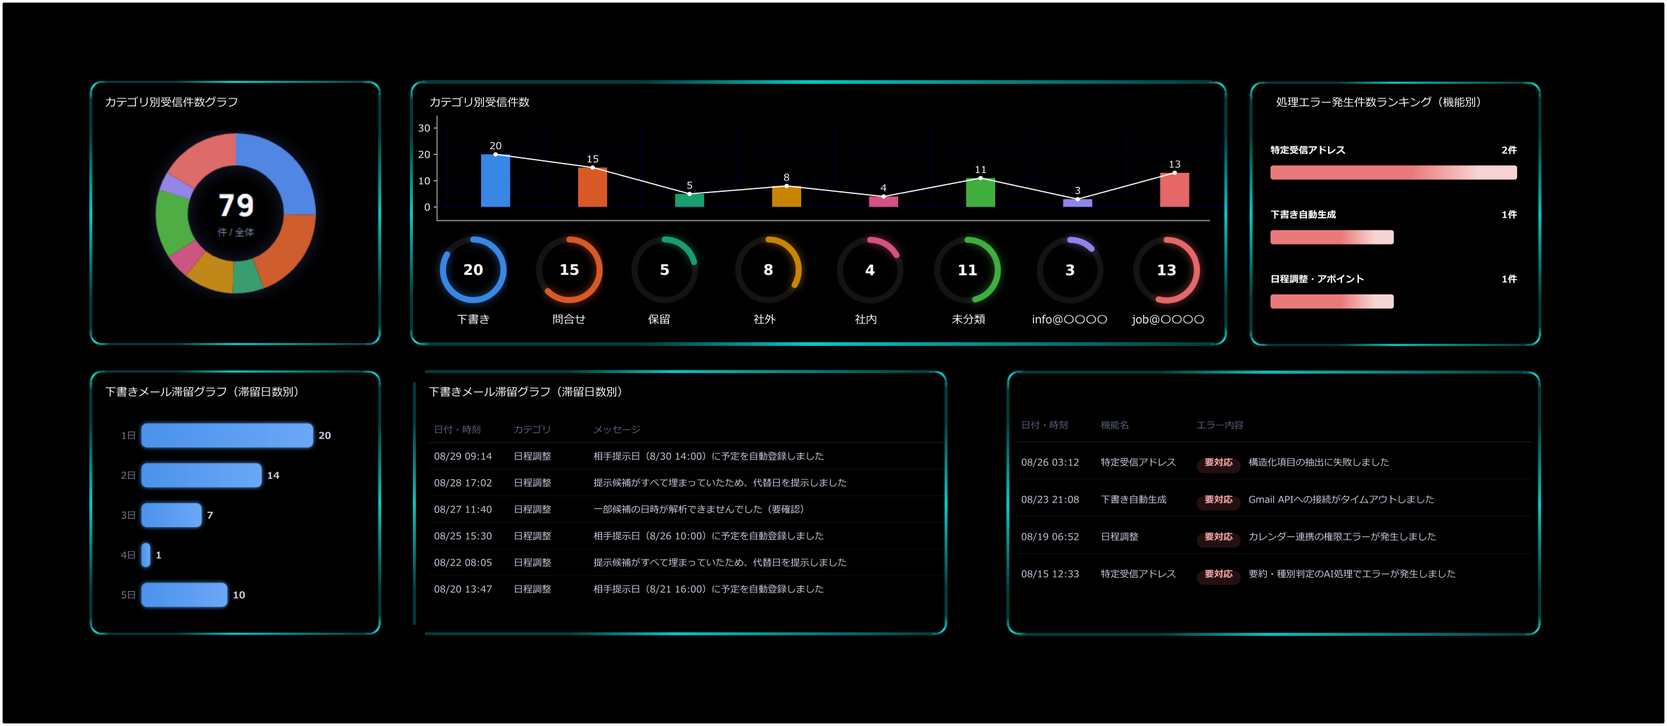
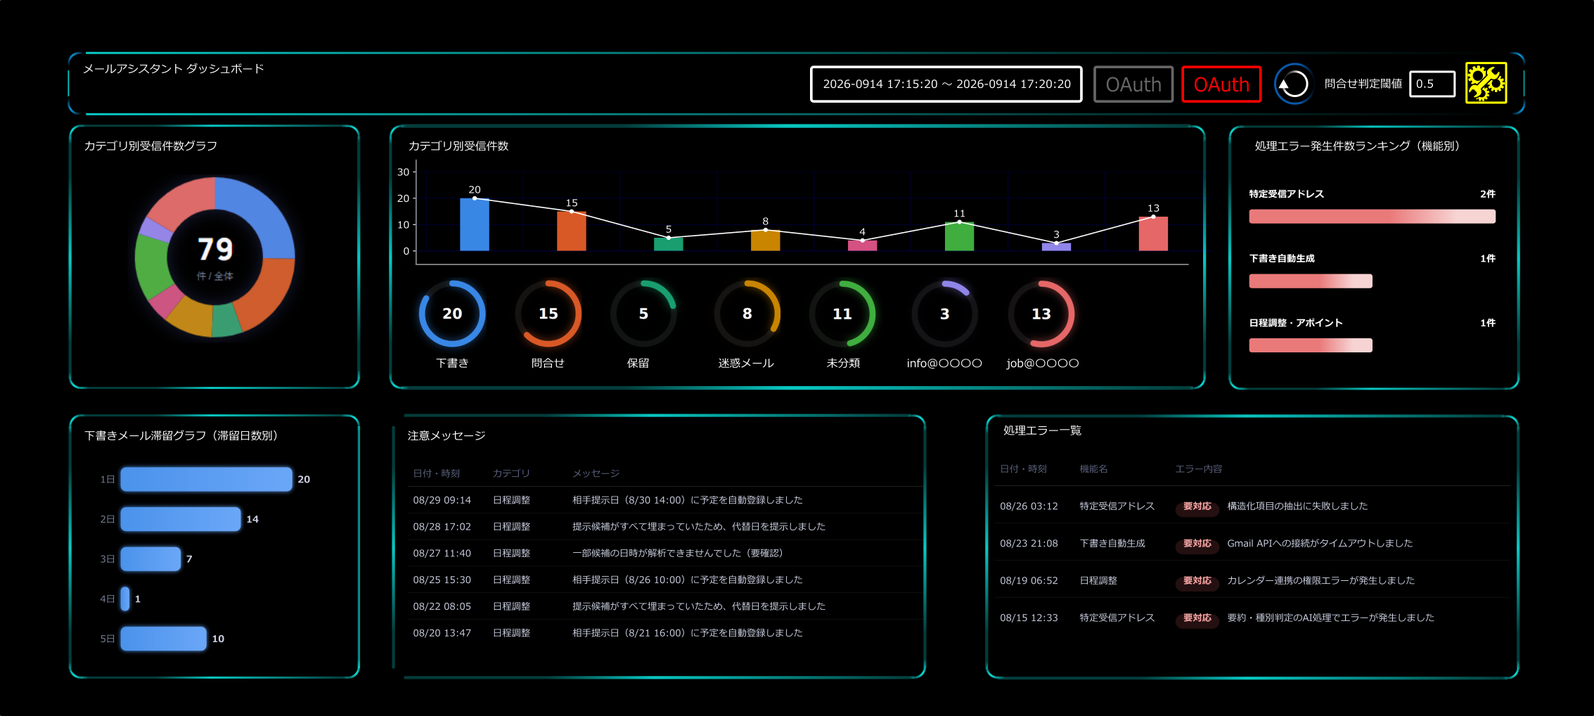
2026-09-18

diff --git a/詳細設計_ダッシュボード.md b/詳細設計_ダッシュボード.md
@@ -35,7 +35,14 @@
 - **いずれかのカテゴリで認可エラー（要再認証）を検知した場合**：同じバッジが赤色に変わる（表示テキストは「OAuth」のまま、色の変化だけで異常を知らせる）
 - 色を変えるトリガーは、各カテゴリの例外処理でtry/catchにより検知している認可エラー（共通基盤_GAS運用の注意点.md 3章、処理エラーアラート一覧の「要再認証」種別。9章参照）と同じ検知結果を使う。4カテゴリ（下書き自動生成・日程調整アポイント・特定受信アドレス・迷惑メール誤判定検知）はいずれもGASでGmail（またはGoogleカレンダー）と連携しているため、本バッジは特定のカテゴリに紐づくものではなく、システム全体としてのOAuth連携状態をまとめて表す
 - バッジをクリックすると、再認可手順マニュアル（9章「エラーの場合のエラー内容」参照）へ直接遷移する（2026-09-17決定）
-- **OAuthバッジのすぐ近くに、AI判定エラー時の「個別リトライ」操作の入り口（ボタン等）を設置する（2026-09-16決定）**。クリックすると、AI判定処理がエラーになった項目（処理エラーアラート一覧〔9章〕に記録されているもの）に対して再試行を行う。具体的なUI（ボタン単体か、クリックで一覧を開く形か等）はワイヤーフレーム作成時に別途定める（13章Open Questions参照）
+- **OAuthバッジのすぐ近くに、AI判定エラー時の「個別リトライ」操作の入り口（ボタン等）を設置する（2026-09-16決定）**。単一のボタンとし、クリックすると、AI判定処理がエラーになった項目（処理エラーアラート一覧〔9章〕に記録されているもの）に対して即座に再試行処理を開始する（一覧を開く等の中間ステップは設けない。2026-09-18決定）
+
+### 共通ヘッダー：その他の常設要素（2026-09-18追加）
+
+OAuth連携状態バッジ・個別リトライボタンに加えて、共通ヘッダーには以下の要素も常設する。
+
+- **問合せ判定閾値の一時変更欄**：定型的な問い合わせ対応のカテゴリ判定しきい値（恒久値は11章の設定画面で管理）を一時的に上書きするための数値入力欄を設ける。6章「一時的なしきい値・期間を指定した一括再処理」の入口はこの欄とし、対象期間はヘッダーの期間表示・指定欄で指定する。値を確定した際の具体的な実行トリガーは、判定閾値の左側に設置したバッジ（濃紺の円形アイコン、反時計回りの矢印）をクリックした時点とする（2026-09-18決定）
+- **システム設定画面の呼び出しバッジ**：黄色の歯車アイコンのバッジとする（2026-09-18決定。11章参照）
 
 ## 2. 全体サマリー
 
@@ -45,16 +52,20 @@
 - 全体の受信メール数
 - スパムメール数
 - 自動返信下書き機能が動いた件数
-- 特定受信アドレス宛の受信件数
+- 特定受信アドレス宛の受信件数（2026-09改称：旧「ホームページからの問い合わせメール件数」。詳細設計_特定受信アドレス.md 5章参照）
 - 迷惑メール誤判定検知機能で見つかった件数
-- 転職エージェント・フリーランス案件紹介サイトからのメール件数（グループ化機能）
-- カテゴリ別受信件数（定型的な問い合わせ対応／営業・取引先／日程調整・アポイント／特定受信アドレス宛／迷惑メール誤判定検知、および未分類メール。社外／社内の区分は廃止した。2026-09-17決定）
-- 保留件数
+- カテゴリ別受信件数（定型的な問い合わせ対応／営業・取引先／日程調整・アポイント／特定受信アドレス宛／迷惑メール誤判定検知／未分類メール、および他〔保留等〕）
 
-各円弧グラフ（カテゴリ別受信件数）はクリック可能で、対応する一覧画面（要確認の下書き一覧〔3章〕、特定受信アドレス一覧〔7章〕、迷惑メール誤判定検知結果一覧〔8章〕等）に遷移する（2026-09-17決定）。
+各円弧グラフ（カテゴリ別受信件数）はクリック可能で、対応する一覧画面（要確認の下書き一覧〔3章〕、特定受信アドレス一覧〔7章〕、迷惑メール誤判定検知結果一覧〔8章〕等）に遷移する（2026-09-17決定）。特定受信アドレス宛の内訳は、システム設定画面に登録された宛先アドレスごとに集計し、アドレスごとに個別の弧（例：info@◯◯、job@◯◯）として表示する。各弧をクリックすると、該当アドレス宛に絞り込んだ特定受信アドレス一覧（7章）が表示される（2026-09-18決定）。保留メール等、他のいずれのカテゴリにも含まれない集計値は「他」の弧としてまとめて表示し、クリックすると保留メール一覧（4章）に遷移する（2026-09-18決定）。
+
+カテゴリ別受信件数は、上記の円弧グラフの直上に、同一の内訳を棒グラフ＋折れ線グラフのコンボチャートでも表示する（2026-09-18決定。画面イメージ参照）。横軸は円弧グラフと同じ区分（下書き／他／迷惑メール／未分類／特定受信アドレスの各アドレス等）、縦軸は件数とし、各棒の頂点を折れ線でつないで推移・比較を見やすくする。
+
+特定受信アドレスの内訳表示は最大3アドレスまでとする。登録アドレスが4件以上ある場合、受信件数の多い順に上位3アドレスを個別の弧・棒として表示し、4件目以降は「その他特定アドレス」として1つに合算して表示する（2026-09-18決定）。
+
+各カテゴリの表示色（円グラフ・円弧グラフ・コンボチャート共通）は、システム設定画面で利用者が指定できるようにする（2026-09-18決定。11章参照）。
 
 **その他**
-- 「要確認の下書き」の滞留日数（横棒グラフ、日数を併記）
+- 「要確認の下書き」の滞留日数（横棒グラフ、日数を併記）。滞留日数の区分は1日／2日／3日／4日／5日以上とし、最終区分（5日以上）は5日以上経過した下書きメールをすべて合算して集計する（2026-09-18決定。画面イメージ上の表記「5日」は「5日以上」の意）
 
 データソース：各カテゴリの詳細設計「出力」章に記載された集計用メタ情報（詳細設計_下書き自動生成.md 4章、詳細設計_日程調整アポイント.md 5章、詳細設計_特定受信アドレス.md 5章）。
 
@@ -69,24 +80,16 @@
 - カテゴリ
 - 下書きへのリンク（クリックでGmailの下書き画面を開く）
 - 「不要」ボタン／バッジ
-- 下書き本文に不確定マーカー（`<<<<〇〇について回答不確定>>>>`形式）が含まれる場合の要確認フラグ表示（詳細設計_下書き自動生成.md 3章Step3・5章参照。2026-09追加）。定型的な問い合わせ対応では回答情報が不足していても保留にせず必ず下書きを作成する方式（2026-09決定）としたため、このフラグにより「送信前に必ず内容確認・加筆が必要な下書き」を他の下書きと区別できるようにする
+- **不確定マーカー**：下書き本文に不確定マーカー（`<<<<〇〇について回答不確定>>>>`形式）が含まれる場合、要確認フラグを表示する（詳細設計_下書き自動生成.md 3章Step3・5章参照）。定型的な問い合わせ対応では回答情報が不足していても保留にせず必ず下書きを作成する方式（2026-09決定）としたため、このマーカーにより「送信前に必ず内容確認・加筆が必要な下書き」を他の下書きと区別できるようにする。フラグは画像（アイコン）で表示するが、具体的なデザインは別途検討する
 
 操作・仕様：
 - フェーズ1では、ダッシュボード上での下書き本文の編集機能は設けない
-- 返信不要なメールに対しても自動で下書きが作成されてしまうケースを想定し、「不要」を押すとその下書きを本一覧から削除できるようにする。削除時はGmail側の下書き自体も削除する（ダッシュボードの管理データのみを消して表示から外す方式は採らない。2026-09-17決定）
-- 日程調整・アポイントでパターンBにより予定が自動登録された下書きは、他カテゴリと区別できるステータス表示（例：「予定登録済み・下書き確認待ち」バッジ、詳細設計_日程調整アポイント.md 4章Step5）を行う
+- 返信不要なメールに対しても自動で下書きが作成されてしまうケースを想定し、「不要」を押すとその下書きを本一覧から削除できるようにする。削除時はGmail側の下書き自体も削除する。
+- 日程調整・アポイントでパターンBにより予定が自動登録された下書きは、他カテゴリと区別できるステータス表示（例：「予定登録済み・下書き確認待ち」バッジ、詳細設計_日程調整アポイント.md 4章Step5）を行う。このバッジも画像（アイコン）で表示するが、具体的なデザインは別途検討する
 
 ## 4. 保留メール一覧
 
-対象：日程調整アポイントなどが、候補日解析不可・候補日0件・パターン判別不明などの理由で下書きを作成せず保留にしたメール（詳細設計_日程調整アポイント.md 4章Step3・Step4-A・Step4-B、6章）。
-
 下書き自動生成（定型的な問い合わせ対応）は2026-09の方針変更により「保留」の運用を廃止し、回答情報が不足する場合も含めて必ず下書きを作成する方式としたため、本一覧の対象外とする（詳細設計_下書き自動生成.md 3章Step3・5章参照）。該当する下書きは、3章「要確認の下書き一覧」に不確定マーカー付きの要確認フラグとして表示される。
-
-表示項目：
-- 受信日時、差出人、件名
-- カテゴリ
-- 保留理由（例：「日程調整・候補日なし」「日程調整・日時解析不可」「日程調整・判定不明」）
-- 元メールへのリンク
 
 ## 5. カテゴリ固有の注意メッセージ
 
@@ -108,27 +111,27 @@
 
 操作フロー：
 1. 利用者が対象メールの行で「カテゴリ変更」を選択する
-2. 変更後のカテゴリ（定型的な問い合わせ対応／日程調整・アポイント／特定受信アドレス等、下書き自動生成の対象となる全カテゴリ）を選択する
+2. 変更後のカテゴリ（定型的な問い合わせ対応／日程調整・アポイント等、下書き自動生成の対象となる全カテゴリ。特定受信アドレスは対象外〔下記「対象範囲」参照〕）を選択する
 3. 保存すると、選択したカテゴリの下書き生成処理（各カテゴリの詳細設計のStep3以降に相当する処理）が再実行される
 
-対象範囲：特定のカテゴリに限らず、下書き自動生成の対象となる全カテゴリで共通して使える機能とする（親仕様5章）。特定受信アドレス一覧は宛先ベースの判定（詳細設計_特定受信アドレス.md Step2）のため、本機能の対象に含めるかは13章Open Questions参照。
+対象範囲：特定のカテゴリに限らず、下書き自動生成の対象となる全カテゴリで共通して使える機能とする（親仕様5章）。特定受信アドレス宛のメール（宛先ベースの判定。詳細設計_特定受信アドレス.md Step2）は本機能（メール単位の手動カテゴリ変更）の対象に含めない（2026-09-18決定）。理由：特定受信アドレスの登録漏れ（本来登録すべきアドレスがシステム設定画面の「特定受信アドレス一覧」に未登録だったケース）が想定されるが、この場合は該当アドレスを一覧に登録したうえで、対象期間を指定した再処理により該当メールをまとめて特定受信アドレス扱いに再分類する運用とする（具体的な再処理UIの仕様は別途定める）。
 
-なお、定型的な問い合わせ対応のカテゴリ判定（AI判定）については、メール1件ずつのカテゴリ変更に加えて、一時的なしきい値・期間を指定した一括再処理の仕組みを別途設ける（詳細設計_下書き自動生成.md 3章Step2「ダッシュボードからの一時的なしきい値変更による再処理」参照。画面配置はシステム設定画面〔11章〕に含める。2026-09-17決定）。
+なお、定型的な問い合わせ対応のカテゴリ判定（AI判定）については、メール1件ずつのカテゴリ変更に加えて、一時的なしきい値・期間を指定した一括再処理の仕組みを別途設ける（詳細設計_下書き自動生成.md 3章Step2「ダッシュボードからの一時的なしきい値変更による再処理」参照。入口は共通ヘッダーの「問合せ判定閾値」入力欄とする〔1章参照〕）。
 
 ## 7. 特定受信アドレス一覧
 
-詳細設計_特定受信アドレス.md 4章Step5・8章の内容をそのまま踏襲する。
+詳細設計_特定受信アドレス.md 4章Step5・6章の内容をそのまま踏襲する（2026-09-18改称：旧「HP問い合わせ一覧」。特定受信アドレス.md自体が「HP問い合わせ」から「特定受信アドレス」へ改称・一般化されたことに伴う。同ドキュメント修正履歴参照）。
 
-本画面へは、全体サマリー（2章）のカテゴリ別受信件数の円弧グラフのうち「特定受信アドレス」の弧をクリックすることで遷移する（2026-09-17決定）。
+本画面へは、全体サマリー（2章）のカテゴリ別受信件数の円弧グラフのうち「特定受信アドレス」の各アドレス別の弧（例：info@◯◯、job@◯◯）をクリックすることで、該当アドレス宛に絞り込んで遷移する（2026-09-18決定）。
 
-表示項目：受信日時、会社名、担当者名、メールアドレス、電話番号、要約、種別（問合せ／営業／他）、フォーム選択カテゴリ、元メールへのリンク、対応状況。
+表示項目：受信日時、会社名、担当者名、メールアドレス、電話番号、要約、種別（問合せ／営業／他。2026-09-08改称：旧「本来の問い合わせ／営業・PR目的／その他・判定不能」）、フォーム選択カテゴリ、元メールへのリンク、対応状況。
 
 操作：
 - 種別によるフィルタ表示（タブ分けはしない）
 - 対応状況バッジ（未対応／対応済み／保留）のクリック切り替え
 - 種別の手動訂正（誤判定時、決定済み事項）
 - 「返信下書きを作成」ボタン（Step 6。作成後は「下書き作成済み」であることが分かる表示を追加）
-- 「フォーマット未認識」「処理エラー」フラグの表示（例外処理6章）
+- 「フォーマット未認識」「処理エラー」フラグの表示（詳細設計_特定受信アドレス.md 6章）
 
 ## 8. 迷惑メール誤判定検知 結果一覧
 
@@ -161,19 +164,27 @@
 表示項目（エラーの一覧本体）：
 - 動作時間
 - 機能名
-- 動作結果（正常終了／エラー）
 - **エラー種別（通常エラー／要再認証）**（2026-09-15追加）。新着メール検知の連携方式は全カテゴリ（下書き自動生成・日程調整アポイント・特定受信アドレス・迷惑メール誤判定検知）でGAS（Google Apps Script）に統一する方針が決定している（メールアシスタントツール_仕様書.md 4章・7章参照）。GASでGmail連携の認可（OAuth）が失効した場合、放置しても自然には復旧せず人手による再認可操作が必要になる（共通基盤_GAS運用の注意点.md参照）。この種のエラーは、GAS側で「Authorization is required to perform that action」等の特定メッセージを含む例外として検知できるため、各カテゴリの処理側でtry/catchにより通常のエラーと区別し、本項目で「要再認証」として記録する。この検知ロジックは各カテゴリの詳細設計の例外処理章にも個別に明記する
-- エラーの場合のエラー内容（「要再認証」の場合は、再認可の手順を示す簡易マニュアル〔スクリーンショット付き〕へのリンクをあわせて表示する。マニュアルの内容は共通基盤_GAS運用の注意点.md 2(d)・4章の手順を元に作成する）
+- エラー内容（「要再認証」の場合は、再認可の手順を示す簡易マニュアル〔スクリーンショット付き〕へのリンクをあわせて表示する。マニュアルの内容は共通基盤_GAS運用の注意点.md 2(d)・4章の手順を元に作成する）
 
 備考：
 - 既存の3つの詳細設計（下書き自動生成・日程調整アポイント・特定受信アドレス）は、いずれも自カテゴリの例外処理の章から本一覧への記録を明記済み（2026-09決定・反映済み）。下書き自動生成・日程調整アポイントは処理エラー時「通常の未対応メールとして残す（ダッシュボード上は『未対応』のまま）」に加えて本一覧にも記録し、特定受信アドレスは専用一覧（7章）の「処理エラー」フラグ表示に加えて本一覧にも記録する
-- 「要再認証」種別は、GASを採用する全カテゴリ（下書き自動生成・日程調整アポイント・特定受信アドレス・迷惑メール誤判定検知）で共通して用いる（各カテゴリの詳細設計の例外処理章を参照）。表示上は「通常エラー」よりも目立つ形（例：警告色のバッジ、一覧の上位固定表示など）にすることが望ましい
-- 本一覧内の個別表示に加えて、画面右上の共通ヘッダーにOAuth連携状態バッジを常設し、認可エラー検知時に赤色表示することで、一覧を開かなくても状態を把握できるようにする（2026-09-15決定。1章「共通ヘッダー：OAuth連携状態バッジ」参照）
-- ログの保存期間は親仕様7章「データの取り扱い」参照（暫定：当面は全件保持）
+- 「要再認証」種別は、GASを採用する全カテゴリ（下書き自動生成・日程調整アポイント・特定受信アドレス・迷惑メール誤判定検知）で共通して用いる（各カテゴリの詳細設計の例外処理章を参照）。表示上は「通常エラー」よりも目立つ形（警告色のバッジ、一覧の上位固定表示）とする
+- 本一覧内でエラー種別ごとに個別に表示されることに加えて、画面右上の共通ヘッダーにOAuth連携状態バッジを常設し、認可エラー検知時に赤色表示することで、本一覧を開かなくても状態を把握できるようにする（2026-09-15決定。1章「共通ヘッダー：OAuth連携状態バッジ」参照）
+- 「要再認証」に該当する当メッセージ一覧のメッセージについて、表示文字は赤とし、そのほかのメッセージは白とする（バッジ等の背景色は設けない。2026-09-18決定）
+- ログの保存期間は既定30日とし、システム設定画面（11章）で利用者が変更できるようにする（2026-09-18決定。親仕様7章「データの取り扱い」参照）
+
+### 処理エラー発生件数ランキング（機能別、2026-09-18追加）
+
+処理エラーアラート一覧の画面に、集計期間内の処理エラー発生件数を機能別にランキング表示する横棒グラフを設ける。
+
+- 表示項目：機能名、エラー発生件数
+- 表示件数は上位3機能のみとする（4位以下は表示しない。2026-09-18決定）
+- 集計対象は本一覧の表示項目（エラーの一覧本体）と同じデータソースとする
 
 ## 10. （廃止）受信メールのグループ化・フォルダ表示
 
-**本機能は削除された（2026-09決定。メールアシスタントツール_仕様書.md 7章「決定済み事項」参照）。** 理由：既に「定型的な問い合わせ対応」「日程調整・アポイント」「特定受信アドレス宛」の3カテゴリ＋「未分類メール」一覧でダッシュボード表示が整理できているため、それ以上の分類機能は不要と判断したため。
+**本機能は削除された（2026-09決定。メールアシスタントツール_仕様書.md 7章「決定済み事項」参照）。** 理由：既に「定型的な問い合わせ対応」「日程調整・アポイント」「HPのお問い合わせページ経由」の3カテゴリ＋「未分類メール」一覧でダッシュボード表示が整理できているため、それ以上の分類機能は不要と判断したため。
 
 以下は削除前の設計内容（記録として残す。実装は行わない）：
 
@@ -181,7 +192,8 @@
 
 ## 11. システム設定画面
 
-ダッシュボードにバッジを設け、そこからシステム全体の設定画面を呼び出す（2026-09-03追加。2026-09-17決定：呼び出し手段はバッジのみとし、メニュー方式は設けない）。
+ダッシュボードにバッジを設け、そこからシステム全体の設定画面を呼び出す。
+（2026-09-03追加。2026-09-17決定：呼び出し手段はバッジのみとし、メニュー方式は設けない。2026-09-18決定：バッジは黄色の歯車アイコンとする。1章参照）
 
 設定対象項目：
 - 稼働曜日・稼働時間帯、想定所要時間、候補日の検索期間（詳細設計_日程調整アポイント.md 3章）
@@ -189,26 +201,23 @@
 - 特定受信アドレス一覧、抽出項目のラベル別名一覧（詳細設計_特定受信アドレス.md 3章）
 - 迷惑メール誤判定検知機能のスキャン頻度（親仕様6章）
 - 定型的な問い合わせ対応のカテゴリ判定用「該当しやすい特徴／該当しにくい特徴」リスト、および実運用で使う恒久的な判定しきい値（初期値0.5。詳細設計_下書き自動生成.md 3章Step2。2026-09追加・決定）
+- 処理エラーアラート一覧・迷惑メール誤判定検知結果一覧のログ保存期間（初期値30日。9章参照。2026-09-18追加・決定）
+- ダッシュボードの自動更新間隔（初期値5分。2章他、画面全体のデータ再取得頻度。GASの時間主導型トリガーのスキャン間隔〔1章・13章決定済み事項参照〕とは別設定。2026-09-18追加・決定）
+- カテゴリ別受信件数の各カテゴリの表示色（円グラフ・円弧グラフ・コンボチャート共通。2章参照。2026-09-18追加・決定）
 
-なお、この恒久的なしきい値の変更（本画面での操作）とは別に、一時的なしきい値と対象期間（受信日時の範囲）を指定してメールを再判定する機能を設ける（詳細設計_下書き自動生成.md 3章Step2「ダッシュボードからの一時的なしきい値変更による再処理」参照。2026-09決定）。この一時的な再処理機能は、新たに専用画面を設けず、本設定画面の機能として含める（2026-09-17決定）。
+なお、この恒久的なしきい値の変更（本画面での操作）とは別に、一時的なしきい値と対象期間（受信日時の範囲）を指定してメールを再判定する機能を設ける（詳細設計_下書き自動生成.md 3章Step2「ダッシュボードからの一時的なしきい値変更による再処理」参照。2026-09決定）。本機能の入口は共通ヘッダーの「問合せ判定閾値」入力欄とする（1章参照）。
+（2026-09-18決定：当初は本設定画面の機能として含める方針としていたが、共通ヘッダーの常設項目に変更した）
 
 画面構成は、Windows 11の設定アプリのようなイメージとする：左側に設定カテゴリの一覧（縦方向のナビゲーションリスト）を配置し、右側に選択中のカテゴリの詳細設定項目を表示する2ペイン構成とする（2026-09-17決定）。
 
 ## 12. 例外処理
 
-- 各カテゴリの処理機能からのデータ連携が一時的に取得できない場合、該当セクションには「データ取得中」または「取得エラー」の表示を行い、他セクションの表示は継続する
+- 各カテゴリ（下書き自動生成・日程調整アポイント・特定受信アドレス・迷惑メール誤判定検知）の処理機能からのデータ連携が一時的に取得できない場合、そのカテゴリのデータを表示するダッシュボードの画面（例：特定受信アドレスなら7章の一覧、迷惑メール誤判定検知なら8章の一覧）には「データ取得中」または「取得エラー」の表示を行い、他のカテゴリの画面の表示は継続する
 - 「不要」操作でGmail側の下書き削除に失敗した場合、ダッシュボード上の一覧からは削除せず、エラーを処理エラーアラート一覧（9章）に記録する
 
 ## 13. このカテゴリ固有のOpen Questions
 
-- 処理エラーアラート一覧・迷惑メール誤判定検知結果一覧のログ保存期間（親仕様7章と連動）
 - 迷惑メール誤判定検知結果一覧からの「受信トレイへ戻す」操作の具体的な実装方法（UI自体は一覧の行から操作する形で決定済み。GmailApp側でどのAPIを使うかは未定。詳細設計_迷惑メール誤判定検知.md 8章参照）
-- 手動カテゴリ再分類機能の対象に特定受信アドレス（宛先ベース判定）を含めるか
-- ダッシュボード全体の更新頻度・リアルタイム性、および利用者範囲（親仕様7章の暫定方針を参照。正式確定は運用開始後）
-- 各セクション間のナビゲーションUI（左メニュー／タブ／トップページからのリンクなど。カテゴリ別受信件数の円弧グラフクリックによる各一覧への遷移は決定済み〔下記「決定済み事項」参照〕だが、それ以外の画面全体のメニュー構成は未定）
-- 処理エラーアラート一覧内の「要再認証」表示の具体的な強調デザイン（バッジの色・一覧内での並び順など。9章参照。画面右上の共通OAuthバッジの見た目は下記「決定済み事項」参照）
-- 再認可手順マニュアル（スクリーンショット付き）の保管場所・作成タイミング（9章参照）
-- 「個別リトライ」操作の具体的なUI（ボタン単体か、クリックで一覧を開く形か等。設置位置〔OAuthバッジの近く〕は決定済み。1章参照）
 
 ### 決定済み事項（参考）
 以下は検討の結果、本ドキュメント内で決定済みとした項目。
@@ -224,8 +233,23 @@
 - **カテゴリ別受信件数の円弧グラフのクリック操作**：クリックすると対応する一覧画面（要確認の下書き一覧〔3章〕、特定受信アドレス一覧〔7章〕、迷惑メール誤判定検知結果一覧〔8章〕等）に遷移する（2026-09-17決定。2章参照）
 - **カテゴリ別受信件数の内訳**：社外／社内の区分は廃止し、迷惑メール誤判定検知を区分の1つとして含める（2026-09-17決定。2章参照）
 - **システム設定画面へのアクセス手段**：メニューは設けず、バッジのみから呼び出す（2026-09-17決定。11章参照）
-- **一時的なしきい値再処理機能の設置画面**：新規の専用画面は設けず、システム設定画面（11章）の機能として含める（2026-09-17決定）
+- **一時的なしきい値再処理機能の設置画面**：共通ヘッダーの「問合せ判定閾値」入力欄を入口とする（1章参照）。
+  （2026-09-18決定：当初はシステム設定画面〔11章〕の機能として含める方針〔2026-09-17決定〕だったが、画面イメージに基づき共通ヘッダーへの常設項目に変更した）
 - **システム設定画面の画面構成**：Windows 11の設定アプリのような2ペイン構成（左：設定カテゴリの一覧、右：選択中カテゴリの詳細設定項目）とする（2026-09-17決定。11章参照）
+- **処理エラーアラート一覧・迷惑メール誤判定検知結果一覧のログ保存期間**：既定30日とし、システム設定画面（11章）で利用者が変更できるようにする（2026-09-18決定。9章・11章参照）
+- **ダッシュボード全体の更新頻度・利用者範囲**：ダッシュボードの自動更新間隔は既定5分とし、システム設定画面（11章）で利用者が変更できるようにする（GASの時間主導型トリガーのスキャン間隔のデフォルト値とは別設定。上記決定済み事項参照）。利用者範囲はフェーズ1は利用者本人のみとする（詳細設計_ダッシュボード実装方式.md 14章の認証方式と整合。2026-09-18決定）
+- **処理エラーアラート一覧内の「要再認証」表示の強調デザイン**：文字色を赤とする（それ以外の項目・文字は白。バッジ等の背景色は設けない。2026-09-18決定。9章参照）
+- **「個別リトライ」操作のUI**：単一のボタンとし、クリックすると即座に再試行処理を開始する（一覧を開く等の中間ステップは設けない。2026-09-18決定。1章参照）
+- **手動カテゴリ再分類機能の対象範囲**：特定受信アドレス宛のメール（宛先ベース判定）は対象に含めない。登録漏れは、該当アドレスの登録＋対象期間指定の再処理で対応する（2026-09-18決定。6章参照）
+- **再認可手順マニュアルの作成タイミング・保管場所**：本番運用を開始し、実際に認可エラー（要再認証）が発生した時点で、その時の画面をもとに作成する（実際の画面がないと作成できないため）。保管場所は https://www2u.biglobe.ne.jp/~indy/mail-assistant/ とする（2026-09-18決定。1章・9章参照）
+- **カテゴリ別受信件数の表示色**：円グラフ・円弧グラフ・コンボチャート共通で、システム設定画面から利用者が指定できるようにする（2026-09-18決定。2章・11章参照）
+- **特定受信アドレスの内訳表示上限**：最大3アドレスまで個別表示し、4件目以降は受信件数の多い順で上位3件に入らなかった分を「その他特定アドレス」として1つに合算する（2026-09-18決定。2章参照）
+- **処理エラー発生件数ランキング（機能別）の表示件数**：上位3機能のみ表示する（2026-09-18決定。9章参照）
+- **下書き滞留日数グラフの最終区分**：「5日以上」とし、5日以上経過した下書きメールをすべて合算して集計する（2026-09-18決定。2章参照）
+- **共通ヘッダーの「問合せ判定閾値」欄**：定型的な問い合わせ対応の一時的なしきい値変更（6章）の入口として共通ヘッダーに常設する（2026-09-18決定。1章参照）
+- **システム設定画面呼び出しバッジの見た目**：黄色の歯車アイコンとする（2026-09-18決定。1章・11章参照）
+- **詳細画面から全体サマリー・他の詳細画面へ戻る手段**：常設の左メニューやタブは設けず、「戻る」ボタンのみとする（2026-09-18決定。13章参照）
+- **カテゴリ別受信件数の円弧グラフに含まれない集計値の扱い**：保留メール等、他のいずれのカテゴリにも含まれない集計値は「他」の弧としてまとめて表示し、クリックすると保留メール一覧（4章）に遷移する（2026-09-18決定。2章・13章参照）
 
 ## 14. 他機能との関係
 

diff --git a/詳細設計_ダッシュボード実装方式.md b/詳細設計_ダッシュボード実装方式.md
@@ -14,7 +14,7 @@
 - **フロントエンド**：静的HTML/CSS/JS（グラフはChart.js）。設計を最優先するため、フレームワーク非依存の素のHTML/CSS/JSで作る
 - **バックエンド**：Java（Spring Boot）によるREST API
 - **データストア**：バックエンドが所有するリレーショナルDB（PostgreSQL推奨。個人利用規模ならSupabase等の無料枠で足りる）
-- **既存4機能（下書き自動生成・日程調整アポイント・特定受信アドレス・迷惑メール誤判定検知）**：GAS実装のまま変更しない（`共通基盤_GAS運用の注意点.md`で決定済みの方針を維持）
+- **既存4機能（下書き自動生成・日程調整アポイント・特定受信アドレス・迷惑メール誤判定検知）**：GAS実装のまま変更しない（`共通基盤_GAS運用の注意点.md`で決定済みの方針を維持。2026-09-18更新：「HP問い合わせ」は`詳細設計_特定受信アドレス.md`側の改称・一般化決定にあわせて「特定受信アドレス」に呼称変更）
 
 ### データの流れ（決定事項）
 
@@ -49,13 +49,13 @@ GASが(A)でSpring Boot APIを呼び出す都合上、Spring Bootアプリは常
 各画面のAPIが返すデータの土台となるテーブル。厳密なDDLは実装時に詰めるとして、ここでは論理的な項目だけ定義する。
 
 - **emails**：受信メールの基本情報を集約する中心テーブル（下書き一覧・保留一覧・注意メッセージ・未分類一覧などが共通して参照する）
-  - id, receivedAt, sender, subject, category（typical_inquiry / scheduling / specific_address / uncategorized）, judgeMethod（rule / ai）, status（下書き作成済み・未送信 / 予定登録済み・下書き確認待ち / 保留 / 未対応 / 未分類）, draftGmailLink, hasUncertainMarker, originalMailLink
+  - id, receivedAt, sender, subject, category（typical_inquiry / scheduling / hp_inquiry / specific_address / uncategorized）, judgeMethod（rule / ai）, status（下書き作成済み・未送信 / 予定登録済み・下書き確認待ち / 保留 / 未対応 / 未分類）, draftGmailLink, hasUncertainMarker, originalMailLink
 - **pending_reasons**：保留メール一覧の保留理由（emailsに1:1、category=scheduling等が対象）
   - emailId, reason（候補日なし／日時解析不可／判定不明）
 - **category_notices**：カテゴリ固有の注意メッセージ
   - id, occurredAt, category, message, originalMailLink, relatedDraftLink
-- **specific_address_inquiries**：特定受信アドレス一覧専用テーブル（表示項目・対応状況の軸がemailsと異なるため分離。2026-09改称：旧「hp_inquiries」）
-  - id, receivedAt, companyName, contactName, email, phone, summary, type（問合せ／営業／他）, formCategory, originalMailLink, status（未対応／対応済み／保留）, formatUnrecognizedFlag, processingErrorFlag, draftCreatedFlag
+- **specific_address_inquiries**：特定受信アドレス一覧専用テーブル（表示項目・対応状況の軸がemailsと異なるため分離。2026-09-18改称：旧`hp_inquiries`）
+  - id, receivedAt, **targetAddress**（実際に一致した特定受信アドレス一覧上のアドレス。例：`info@ysystems.co.jp`、`job@ysystems.co.jp`。カテゴリ別受信件数のアドレス別内訳〔`詳細設計_ダッシュボード.md` 2章参照〕の集計キー）, companyName, contactName, email, phone, summary, type（問合せ／営業／他。2026-09-08改称：旧「本来の問い合わせ／営業PR／その他」）, formCategory, originalMailLink, status（未対応／対応済み／保留）, formatUnrecognizedFlag, processingErrorFlag, draftCreatedFlag
 - **spam_review_results**：迷惑メール誤判定検知結果一覧
   - id, detectedAt, senderEmail, senderCompany, senderContact, subject, mailCategory（メルマガ系／広告系／支払系／有効期限系／その他）, aiRetryNeeded
 - **processing_errors**：処理エラーアラート一覧
@@ -79,21 +79,27 @@ GET /api/summary?from=2026-08-01&to=2026-08-31
     "totalReceived": 320,
     "spamCount": 45,
     "draftGeneratedCount": 79,
+    "specificAddressCount": 13,
     "misclassifiedFoundCount": 3,
     "categoryBreakdown": {
       "typicalInquiry": 20, "scheduling": 15,
-      "specificAddress": 13, "spamReview": 8, "uncategorized": 11
+      "specificAddress": {
+        "total": 13,
+        "byAddress": { "job@ysystems.co.jp": 10, "info@ysystems.co.jp": 3 },
+        "other": 0
+      },
+      "spamReview": 8, "uncategorized": 11
     },
     "pendingCount": 5
   },
   "draftAgingBarChart": [
     { "days": 1, "count": 20 }, { "days": 2, "count": 14 },
-    { "days": 3, "count": 7 }, { "days": 4, "count": 1 }, { "days": 5, "count": 10 }
+    { "days": 3, "count": 7 }, { "days": 4, "count": 1 }, { "daysOrMore": 5, "count": 10 }
   ]
 }
 ```
 
-なお、下書き修正率のゲージ表示、および受信メールのグループ化・フォルダ表示機能は実装しない（2026-09-16決定。`詳細設計_ダッシュボード.md`側も本決定にあわせて修正済み）。本APIにもこの2つに対応するエンドポイントは含めていない。また、`categoryBreakdown`の内訳から社外／社内（`externalCount`／`internalCount`）の区分を廃止し、迷惑メール誤判定検知（`spamReview`）を追加した（2026-09-17決定。`詳細設計_ダッシュボード.md` 2章参照）。`categoryBreakdown`の各値はカテゴリ別受信件数の円弧グラフに対応し、クリックすると対応する一覧画面（4・8・9章の各API参照）に遷移する（2026-09-17決定）。特定受信アドレス宛のメール（旧「HP問い合わせ」）の受信件数は`categoryBreakdown.specificAddress`の1本に統合済みで、別枠の集計値は持たない（2026-09改称）。
+なお、下書き修正率のゲージ表示、および受信メールのグループ化・フォルダ表示機能は実装しない（2026-09-16決定。`詳細設計_ダッシュボード.md`側も本決定にあわせて修正済み）。本APIにもこの2つに対応するエンドポイントは含めていない。また、`categoryBreakdown`の内訳から社外／社内（`externalCount`／`internalCount`）の区分を廃止し、迷惑メール誤判定検知（`spamReview`）を追加した（2026-09-17決定。`詳細設計_ダッシュボード.md` 2章参照）。`categoryBreakdown`の各値はカテゴリ別受信件数の円弧グラフに対応し、クリックすると対応する一覧画面（4・8・9章の各API参照）に遷移する（2026-09-17決定）。`categoryBreakdown.specificAddress`は、システム設定画面に登録された宛先アドレスごとの内訳（`byAddress`）を持つ。`byAddress`はSpring Boot側で受信件数の多い順にソートし、上位3件のみを返す。登録アドレスが4件以上ある場合、4件目以降の合計を`other`に格納する（`other`が0なら該当なし）。画面上はアドレスごとに個別の弧として表示し、`other`があれば「その他」として1本追加する（2026-09-18決定。`詳細設計_ダッシュボード.md` 2章・7章参照）。各弧のクリックは`GET /api/specific-address?targetAddress=info@ysystems.co.jp`のように絞り込みクエリで8章の一覧APIを呼び出す（`other`の弧をクリックした場合の絞り込み方法は別途検討）。`draftAgingBarChart`の最終要素は`days`ではなく`daysOrMore`キーとし、その日数以上経過した下書きをすべて合算した値を返す（2026-09-18決定。`詳細設計_ダッシュボード.md` 2章参照）。
 
 ## 4. 要確認の下書き一覧
 
@@ -179,18 +185,21 @@ POST /api/typical-inquiry/reprocess
 ```
 この操作はStep2の再比較のみ（AI再判定なし）なので、Spring Boot側で保存済みの確信度と再比較して即座に結果を返せる。ただし実際に下書きを作成・削除する処理はGAS側にしかロジックがないため、内部的には13章の再処理コマンドでGASに転送する。
 
+このAPIの呼び出し元（画面側の入口）は、共通ヘッダーの「問合せ判定閾値」入力欄とする（2026-09-18決定：当初はシステム設定画面の機能とする想定だったが、共通ヘッダーへの常設に変更。`詳細設計_ダッシュボード.md` 1章・6章参照）。
+
 ## 8. 特定受信アドレス一覧
 
-対応：`詳細設計_ダッシュボード.md` 7章、`詳細設計_特定受信アドレス.md` 4章Step5・Step6
+対応：`詳細設計_ダッシュボード.md` 7章、`詳細設計_特定受信アドレス.md` 4章Step5・Step6（2026-09-18改称：旧「HP問い合わせ一覧」／`詳細設計_HP問い合わせ.md`。特定受信アドレス.md自体の改称・一般化決定に伴う）
 
 ```
-GET /api/specific-address?type=問合せ
+GET /api/specific-address?type=問合せ&targetAddress=info@ysystems.co.jp
 ```
 ```json
 [
   {
     "id": "sa_00321",
     "receivedAt": "2026-08-20T10:00:00+09:00",
+    "targetAddress": "info@ysystems.co.jp",
     "companyName": "株式会社サンプル",
     "contactName": "山田太郎",
     "email": "yamada@sample.co.jp",
@@ -206,6 +215,8 @@ GET /api/specific-address?type=問合せ
   }
 ]
 ```
+
+`targetAddress`クエリパラメータは、全体サマリー（2章）のアドレス別の弧をクリックした際の絞り込みに使う（任意パラメータ。省略時は全アドレス横断で返す。2026-09-18決定）。
 
 - 対応状況変更：`PATCH /api/specific-address/{id}/status` `{ "status": "対応済み" }`
 - 種別の手動訂正：`PATCH /api/specific-address/{id}/type` `{ "type": "営業" }`
@@ -280,6 +291,20 @@ GET /api/errors
 - 共通ヘッダーのOAuthバッジ：`GET /api/system/oauth-status` → `{ "status": "ok" | "error" }`（`errorType: 要再認証`のレコードが1件でも存在すれば`error`）
 - 個別リトライ：`POST /api/errors/{id}/retry`（AI判定エラーのみ`retryable: true`）
 
+処理エラー発生件数ランキング（機能別、2026-09-18追加。`詳細設計_ダッシュボード.md` 9章参照）：
+
+```
+GET /api/errors/ranking
+```
+```json
+[
+  { "functionName": "特定受信アドレス", "errorCount": 6 },
+  { "functionName": "下書き自動生成", "errorCount": 4 },
+  { "functionName": "日程調整アポイント", "errorCount": 2 }
+]
+```
+Spring Boot側で機能別に集計し、件数降順で上位3件のみ返す（4位以下は返さない。2026-09-18決定）。集計対象期間は`GET /api/errors`と同じ。
+
 ## 11. システム設定画面
 
 対応：`詳細設計_ダッシュボード.md` 11章
@@ -297,7 +322,7 @@ GET /api/settings
     "keywords": ["ご都合のよい日程", "打ち合わせ", "面談"]
   },
   "specificAddress": {
-    "targetAddresses": ["info@ysystems.co.jp"],
+    "targetAddresses": ["info@ysystems.co.jp", "job@ysystems.co.jp"],
     "labelAliases": { "担当者名": ["お名前", "氏名", "ご担当者名"] }
   },
   "typicalInquiry": {
@@ -305,10 +330,16 @@ GET /api/settings
     "unlikelyFeatures": ["進行中の案件の続き"],
     "threshold": 0.5
   },
-  "spamScan": { "intervalMin": 5 }
+  "spamScan": { "intervalMin": 5 },
+  "logRetentionDays": 30,
+  "dashboardRefreshIntervalMin": 5,
+  "categoryColors": {
+    "typicalInquiry": "#f5a623", "scheduling": "#4a90d9", "specificAddress": "#7ed321",
+    "spamReview": "#d0021b", "uncategorized": "#9013fe", "pending": "#50e3c2"
+  }
 }
 ```
-更新は項目のまとまりごとに分ける：`PUT /api/settings/scheduling`、`PUT /api/settings/specific-address`、`PUT /api/settings/typical-inquiry`、`PUT /api/settings/spam-scan`。
+更新は項目のまとまりごとに分ける：`PUT /api/settings/scheduling`、`PUT /api/settings/specific-address`、`PUT /api/settings/typical-inquiry`、`PUT /api/settings/spam-scan`、`PUT /api/settings/log-retention`、`PUT /api/settings/dashboard-refresh`、`PUT /api/settings/category-colors`（2026-09-18追加：ログ保存期間・ダッシュボード自動更新間隔・カテゴリ表示色の設定項目。`詳細設計_ダッシュボード.md` 11章・13章「決定済み事項」参照）。`specificAddress`は2026-09-18改称（旧`hpInquiry`）で、`targetAddresses`は複数登録可能（例のinfo@／job@は全体サマリーのアドレス別リング表示に対応）。`categoryColors`はカテゴリ別受信件数の円グラフ・円弧グラフ・コンボチャート共通の配色に使う（キーは`categoryBreakdown`の区分名と対応。2026-09-18決定。`詳細設計_ダッシュボード.md` 2章参照）。
 
 ## 12. GAS→Spring Boot 取り込みAPI（ingest）
 
@@ -318,7 +349,7 @@ GASの各機能が、各Stepの最後にこれらのエンドポイントへPOST
 |---|---|
 | `POST /ingest/emails` | 下書き自動生成 Step5／日程調整アポイント Step5（下書き作成・ステータス更新のたび） |
 | `POST /ingest/notices` | 日程調整アポイント Step4-A・4-B（注意メッセージ発生時） |
-| `POST /ingest/specific-address` | 特定受信アドレス Step5 |
+| `POST /ingest/specific-address` | 特定受信アドレス Step5（2026-09-18改称：旧`/ingest/hp-inquiries`） |
 | `POST /ingest/spam-review` | 迷惑メール誤判定検知 Step3 |
 | `POST /ingest/errors` | 4機能共通、例外処理の都度 |
 | `POST /ingest/last-run` | 4機能共通、Step1の最後（正常終了・エラーどちらでも記録。`詳細設計_迷惑メール誤判定検知.md` 3章Step1参照） |
@@ -337,7 +368,7 @@ POST https://script.google.com/macros/s/{デプロイID}/exec
 }
 ```
 
-想定コマンド：`reclassify`（手動カテゴリ再分類）、`deleteDraft`（下書き削除）、`reprocessThreshold`（一時しきい値再処理）、`createSpecificAddressDraft`（特定受信アドレス下書き作成）、`restoreFromSpam`（迷惑メール復帰）、`retryAiJudgement`（AI判定リトライ）。GAS側はこのコマンドを受けて該当Stepの処理を実行し、完了後に12章のingest APIで結果をSpring Boot側に反映する。
+想定コマンド：`reclassify`（手動カテゴリ再分類）、`deleteDraft`（下書き削除）、`reprocessThreshold`（一時しきい値再処理）、`createSpecificAddressDraft`（特定受信アドレス下書き作成。2026-09-18改称：旧`createHpInquiryDraft`）、`restoreFromSpam`（迷惑メール復帰）、`retryAiJudgement`（AI判定リトライ）。GAS側はこのコマンドを受けて該当Stepの処理を実行し、完了後に12章のingest APIで結果をSpring Boot側に反映する。
 
 ## 14. 認証方式（暫定案）
 
@@ -352,3 +383,4 @@ POST https://script.google.com/macros/s/{デプロイID}/exec
 
 ### 決定済み事項（参考）
 - **「不要」操作でのGmail下書き削除要否**：Gmail側の下書きも必ず削除する。`deleteDraft`コマンドを使用する（2026-09-17決定。`詳細設計_ダッシュボード.md` 13章「決定済み事項」参照）
+- **「HP問い合わせ」→「特定受信アドレス」への呼称統一**：`詳細設計_特定受信アドレス.md`が「HP問い合わせ」から「特定受信アドレス」へ改称・一般化された決定を受け、本ドキュメントのテーブル名・APIパス・設定キー・コマンド名も同様に統一した（2026-09-18決定。2・8・11・12・13章参照）
